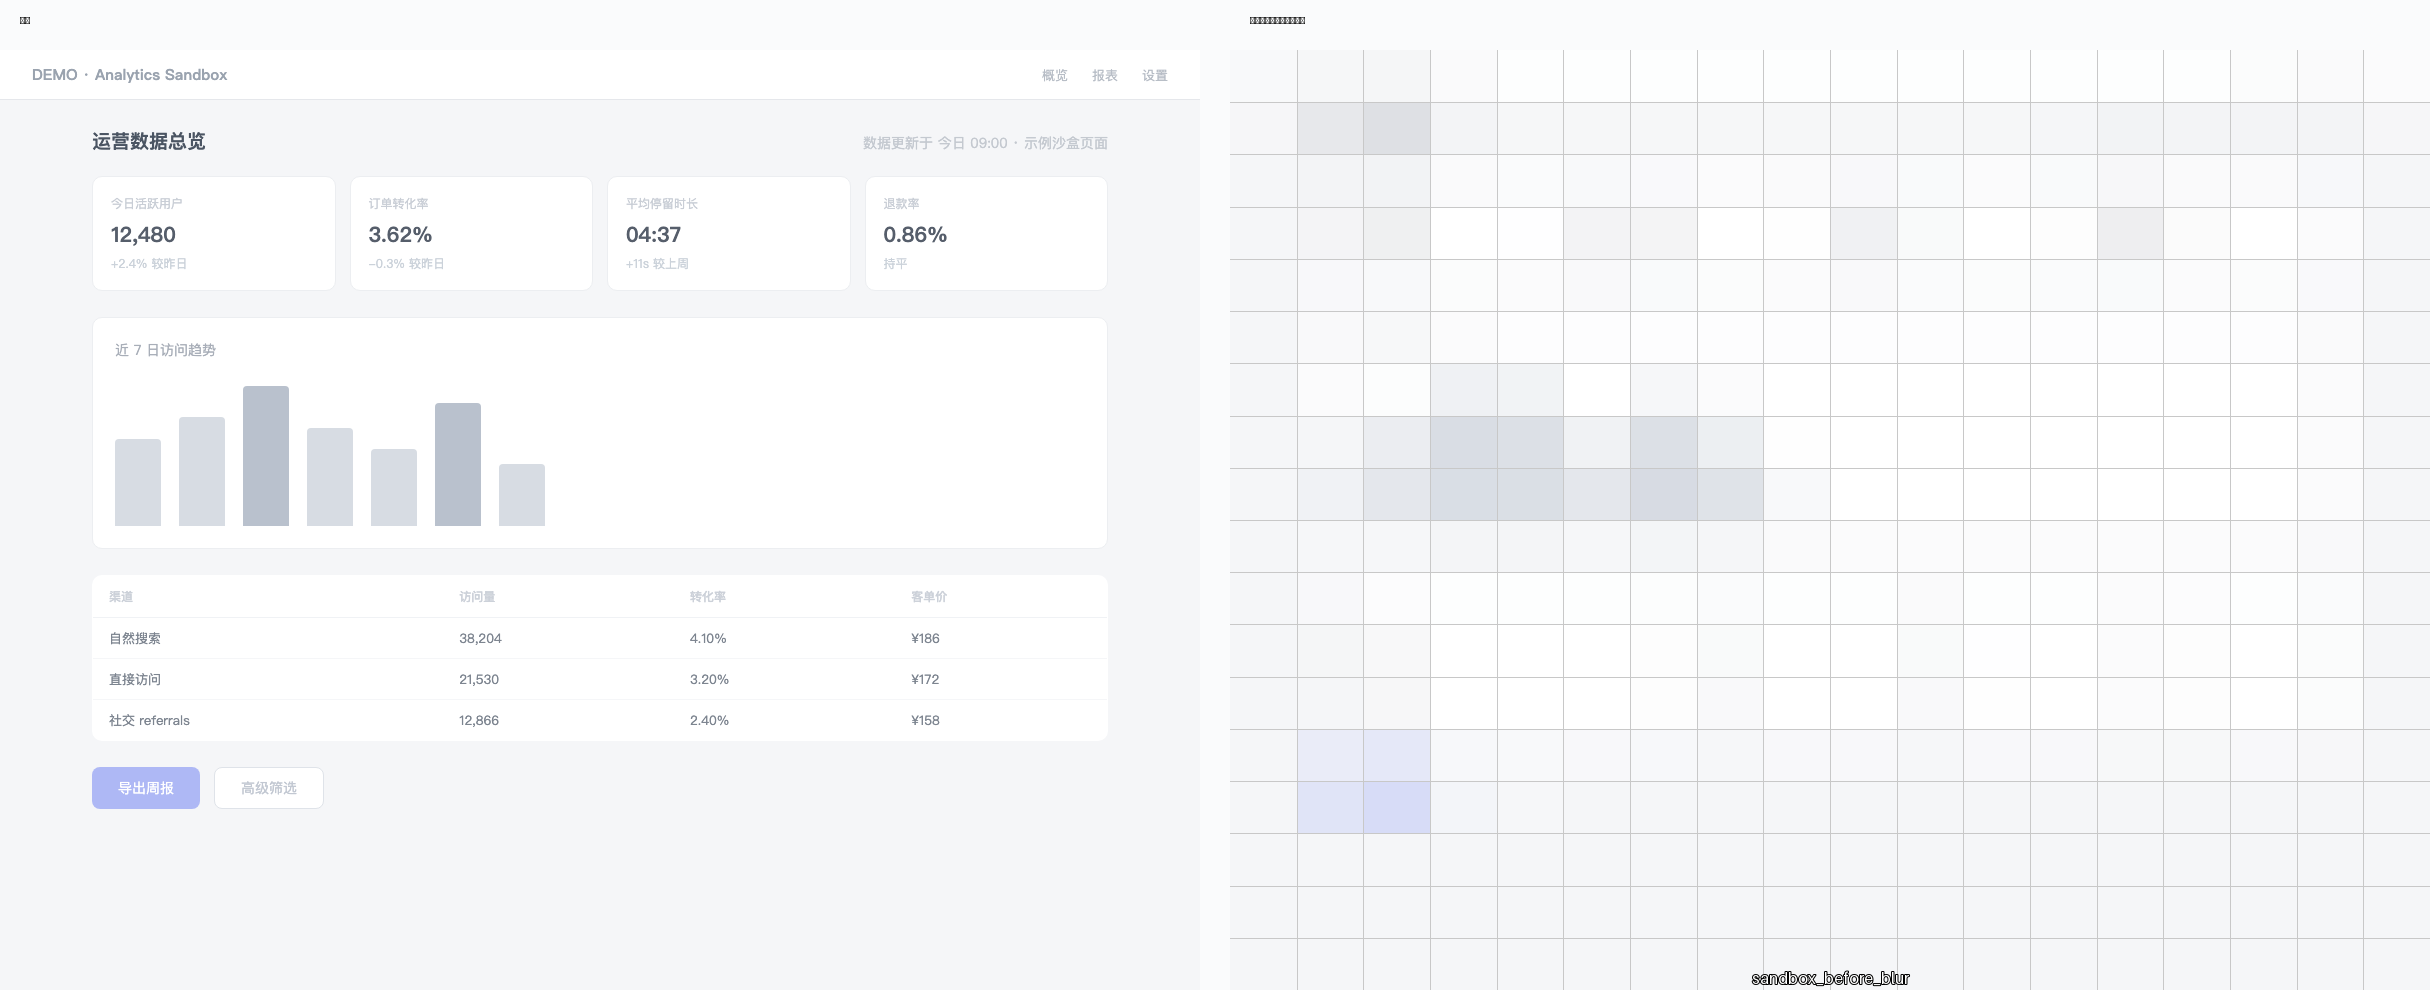
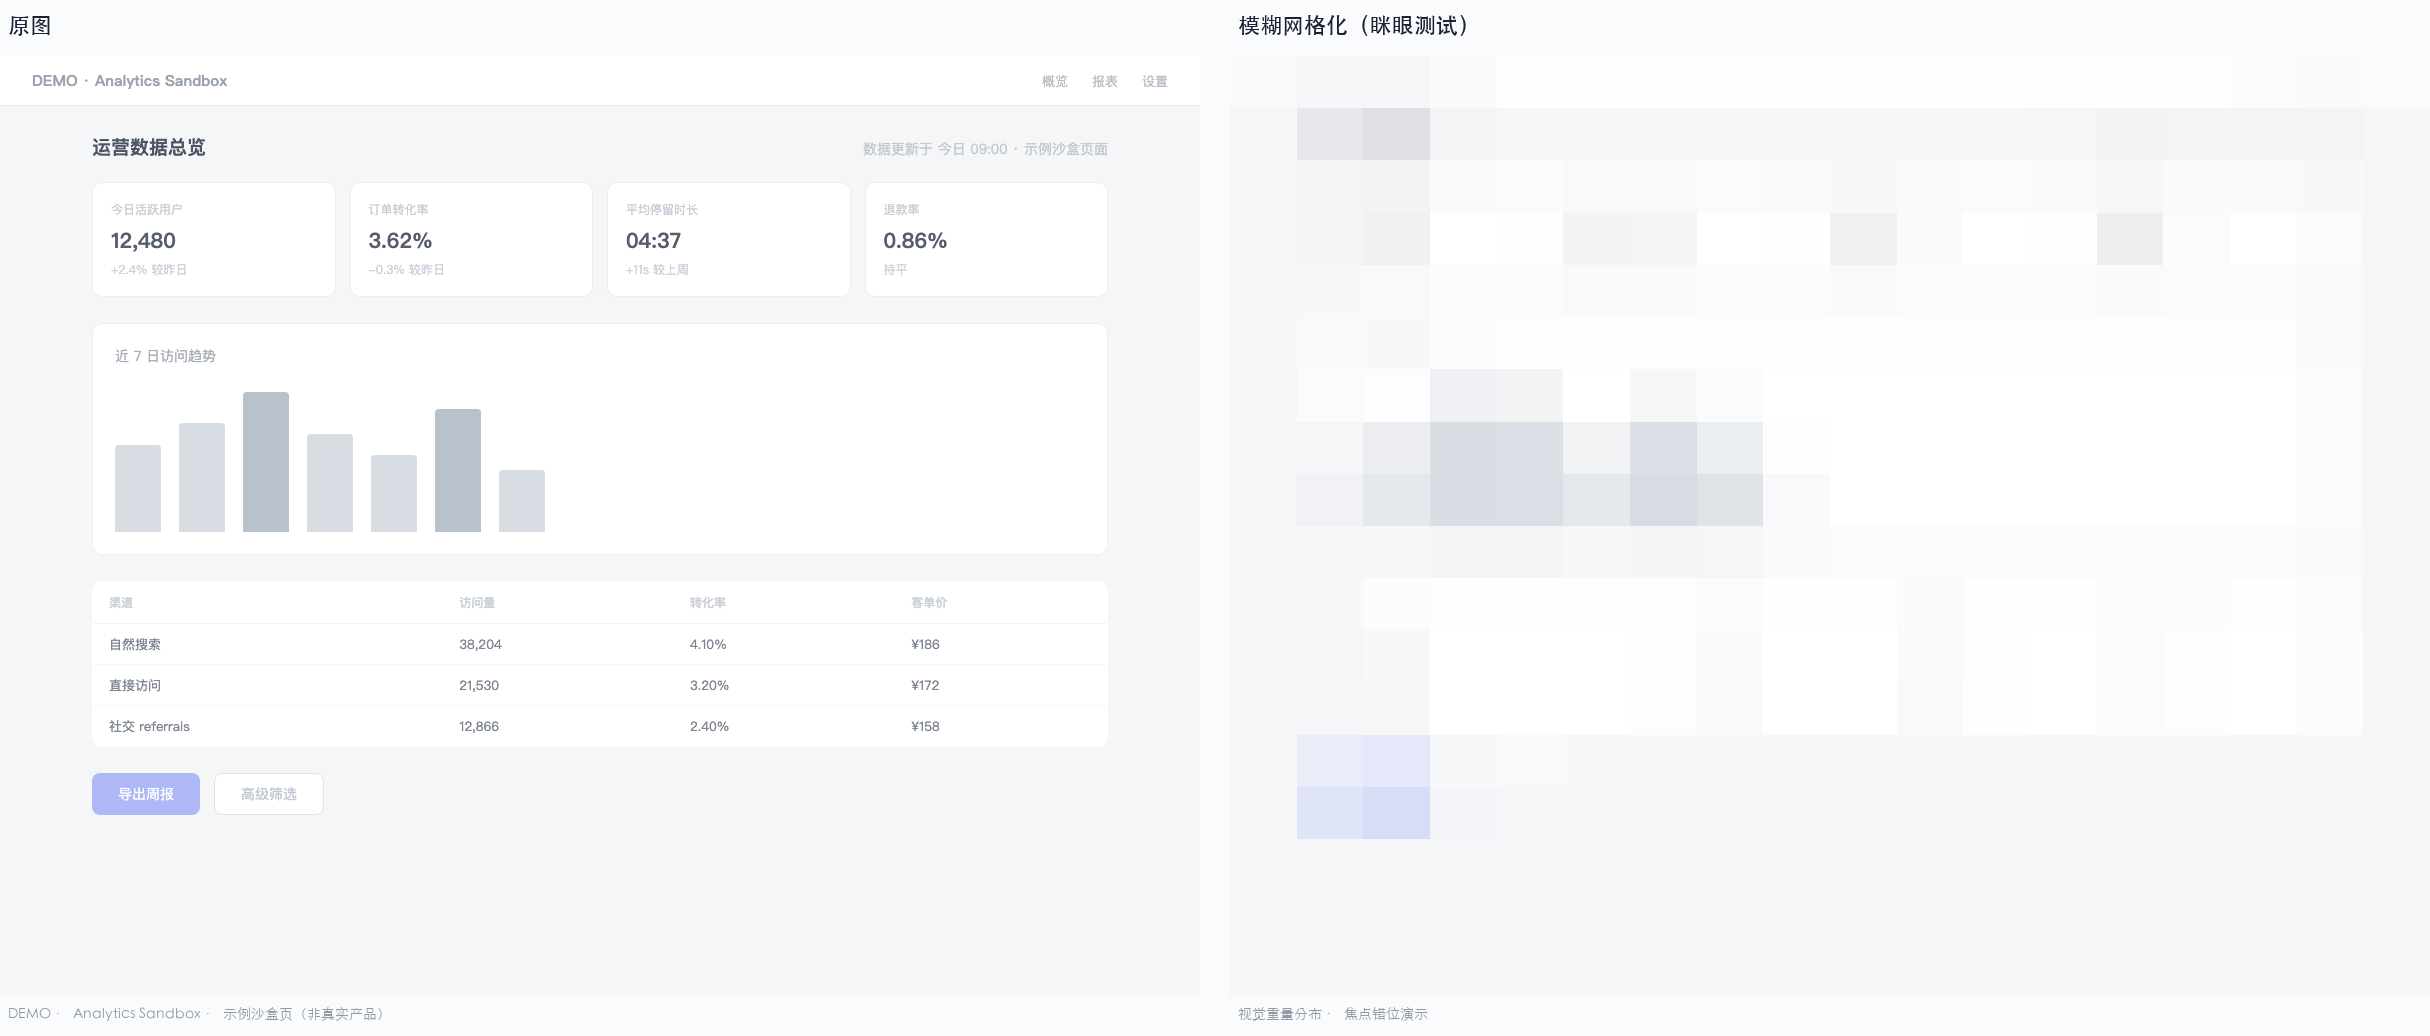
v0.1.0 修订：按 K3 复核意见修复 6 项 P1 + 5 项低成本 P2
P1 必修：
- P1-1 README.md GitHub Actions yaml 路径 bug（去掉 cd，相对路径直接落 ci-tools/）
- P1-2 waitlist 入口清理：保留真实可用的 GitHub Issue 入口，删除无效邮箱/问卷/标签指引
- P1-3 README 补充 examples/ 入口与免费/商业输出边界说明
- P1-4 report_02 删除「70–80 字」锚定数值暗示
- P1-5 report_01 删除「高斯模糊 + 18×18」工具链参数痕迹
- P1-6 docs/blur_grid_compare.png 重出（CJK 字体修复、无内部文件名）

P2 顺手（成本极低+影响公开质量）：
- P2-1 README L82 眯眼金句补英文翻译
- P2-2 删除「不卖包代码…外发即不可控」内部策略自白（L96-97）
- P2-3 README footer 404 链接改为 waitlist 章节内联说明
- P2-4 三份报告概览表下加「整体评级由八维综合得出，非 P0 数量的函数」
- P2-5 体检卡重做：真实维度名 + 去横条（无数字刻度泄露）
- P2-6 README 副标题「一行命令」→「五分钟接入」
- P2-7 落差归因中「眯眼+对比度+视觉层级评分联合判定」弱化为「更系统的视觉层级评估」

清理：docs/blur_grid_mosaic.png 中间产物删除（annotate 网格+内部文件名已剥离）

diff --git a/README.md b/README.md
@@ -1,8 +1,8 @@
 # CI Gate · 对比度与 CSS Token 卫生自动化门禁
 # CI Gate for Contrast & CSS Token Hygiene
 
-> **零第三方依赖（仅 Python 标准库）· 可独立分发作 CI 门禁 · 一行命令接入 GitHub Actions**
-> **Zero third-party dependencies (Python standard library only) · Ship as a standalone CI gate · One-line integration with GitHub Actions**
+> **零第三方依赖（仅 Python 标准库）· 可独立分发作 CI 门禁 · 五分钟接入 GitHub Actions**
+> **Zero third-party dependencies (Python standard library only) · Ship as a standalone CI gate · Five-minute integration with GitHub Actions**
 
 ---
 
@@ -61,7 +61,7 @@ But the real culprits behind conversion and UX regressions are far quieter: visu
 > 完整设计评估体系（八维评分 · 锚定量表 · 失分模式库 · 案例归因 SOP）正在内测，
 > 商业版面向团队授权与持续校准更新订阅。免费版守住下限，商业版托起上限。
 >
-> *A full design evaluation methodology (8-dimension scoring · anchoring scale · failure-pattern library · case-attribution SOP) is in private beta. The commercial release ships as a team license plus calibration-update subscription. Free version guards the floor; the commercial release carries the ceiling.*
+> *A full design evaluation methodology (8-dimension scoring · anchoring scale · failure-pattern library · case-attribution SOP) is in private beta. The commercial release ships as a team license plus calibration-update subscription. Free version guards the floor; the commercial release raises the ceiling.*
 
 ---
 
@@ -80,6 +80,12 @@ Below: a side-by-side of a regular screenshot versus its color-block grid (the "
 | 主按钮 / Primary CTA | 白字浅底，对比度不足 | 模糊后仅剩一团淡色 |
 
 > 评估时眯眼看一眼：焦点是落在页面想要用户行动的位置上吗？——对比度门禁不会告诉你答案。
+>
+> *Squint at it: does the focus land where the page wants users to act? A contrast gate won't tell you.*
+
+> 完整示例报告（B 端看板实跑 + 两个行业虚构样张）与体检卡样张见 [`examples/`](./examples/)。免费脚本输出为机器可读的对比度 / Token 检查结果；示例报告展示的是商业版完整评估的输出形态。
+>
+> *Full sample reports (a real-run B2B dashboard plus two fictional industry samples) and the health-card sample live in [`examples/`](./examples/). The free scripts emit machine-readable contrast/token checks; the sample reports demonstrate the commercial version's full evaluation output.*
 
 ---
 
@@ -89,12 +95,8 @@ Below: a side-by-side of a regular screenshot versus its color-block grid (the "
 
 *The commercial release is in private beta. If you'd like your team to trial the full methodology (8-dimension scoring · anchoring scale · failure-pattern library · continuous calibration updates), join the waitlist:*
 
-- 📬 **邮件预约** / Email: `wcag-gate@等待名单.example` *(正式邮箱将在 v0.2 上线时启用)*
-- 📋 **问卷登记** / Survey form: `https://waitinglist.example/wcag-gate` *(同上，即将上线)*
-- 💬 **GitHub Issue** 留言 / Drop a comment in [Issues](../../issues) 并打 `commercial-beta` 标签 — 我们手动跟进
-
-> 商业版不卖包代码、只卖授权与校准更新订阅：技能包一旦外发即不可控，能锁住的是随时间增值的实证资产与方法论持续校准。
-> *Commercial version is licensed access + calibration-update subscription, not a packaged binary: skill contents cannot be controlled once shipped; the lasting value is in the empirically-calibrated assets and the continuous methodology update.*
+- 💬 **GitHub Issue** 留言 / Drop a comment in [Issues](../../issues)：标题含 `[commercial-beta]`，我们手动跟进 / *Title your issue with `[commercial-beta]` and we'll follow up manually.*
+- 📬 邮件预约与问卷登记将于 v0.2 上线时开放 / *Email and survey sign-up will open at v0.2.*
 
 ---
 
@@ -109,9 +111,9 @@ jobs:
     steps:
       - uses: actions/checkout@v4
       - run: |
-          mkdir -p ci-tools && cd ci-tools
-          curl -sSL https://raw.githubusercontent.com/johnsmithCA-sta/wcag-contrast-ci/main/contrast_checker.py -o contrast_checker.py
-          curl -sSL https://raw.githubusercontent.com/johnsmithCA-sta/wcag-contrast-ci/main/extract_css_vars.py -o extract_css_vars.py
+          mkdir -p ci-tools
+          curl -sSL https://raw.githubusercontent.com/johnsmithCA-sta/wcag-contrast-ci/main/contrast_checker.py -o ci-tools/contrast_checker.py
+          curl -sSL https://raw.githubusercontent.com/johnsmithCA-sta/wcag-contrast-ci/main/extract_css_vars.py -o ci-tools/extract_css_vars.py
           python3 ci-tools/contrast_checker.py --file .a11y/color-pairs.txt --fail-on-issues
           python3 ci-tools/extract_css_vars.py --input dist/css/ --json token-report.json
 ```
@@ -160,4 +162,4 @@ WCAG / ADA / EN 301 549 等正式无障碍审计须由持证机构出具。
 
 ---
 
-<sub>From the **[完整设计评估体系](商业版内测)** by johnsmithCA-sta · v0.1.0 · 2026-09-01</sub>
+<sub>From the **完整设计评估体系**（commercial beta — see waitlist above）by johnsmithCA-sta · v0.1.0 · 2026-09-01</sub>

diff --git a/examples/report_01_dashboard.md b/examples/report_01_dashboard.md
@@ -15,6 +15,8 @@
 | 主要问题 | 见下方评分卡 P0 行 |
 | 建议优先级 | P0×3 → P1×4 → P2×3 |
 
+> 整体评级由八维综合得出，非 P0 数量的函数。
+
 ---
 
 ## 八维评分（结论口径）
@@ -69,7 +71,7 @@
 > **核心归因**：本设计在「结构与排版」层面做了扎实的执行，但在「视觉重量与对比度」层面**优先级判断失准**——把注意力分配给了次级元素（如 KPI 标签、表格表头、副标题时间戳），而把最重要的「主操作与主标题」放在了视觉重量最弱的层级。
 
 这意味着：
-- 不是设计能力问题，是**优先级判断框架**问题——靠肉眼看不出来，需要眯眼测试 + 对比度门禁 + 视觉层级评分**联合判定**。
+- 不是设计能力问题，是**优先级判断框架**问题——靠肉眼看不出来，需要更系统的视觉层级评估。
 - 仅补对比度门禁（免费版可做的）能解决 P0 第 1 项；剩下两项需要更系统的视觉层级评估。
 - 单次评估中三个 P0 是同源问题——视觉重量与对比度的协同设计。一旦修复主 CTA 视觉权重，副标题与导航项的对比度问题会同步改善（因为重设了主色优先级）。
 
@@ -77,7 +79,7 @@
 
 ## 视觉钩子：眯眼测试结果
 
-> 同截图的高斯模糊 + 色块网格化（18×18）处理后，第一焦点落点 = KPI 卡群（应为：主 CTA 或主标题）。
+> 同截图经模糊网格化处理后，第一焦点落点 = KPI 卡群（应为：主 CTA 或主标题）。
 
 | 区域 | 模糊前判断 | 模糊后实际焦点 |
 |---|---|---|

diff --git a/examples/report_03_ecom.md b/examples/report_03_ecom.md
@@ -15,6 +15,8 @@
 | 主要问题 | 见下方评分卡 P0 行 |
 | 建议优先级 | P0×2 → P1×3 → P2×2 |
 
+> 整体评级由八维综合得出，非 P0 数量的函数。
+
 ---
 
 ## 八维评分（结论口径）
@@ -64,7 +66,7 @@
 > **核心归因**：设计把转化页当作品牌页来处理——品牌页追求「信息平衡」，转化页追求「视觉引导」。当前页面在信息平衡上做对了，但**没有为转化动作设计视觉重量优先级**。
 >
 > 这意味着：
-> - 仅修对比度（免费版可做的）能解决 P0 第 2 项；P0 第 1 项需要**视觉层级评分 + 眯眼测试**联合判定。
+> - 仅修对比度（免费版可做的）能解决 P0 第 2 项；P0 第 1 项需要更系统的视觉层级评估。
 > - 修复路径：先把主 CTA 视觉重量拉满（颜色 + 尺寸 + 留白）→ 再把价格对比度提上来 → 最后收敛卖点层级。
 > - 这是典型的「按通用页思路设计转化页」问题——需要按**页面目标**分类（品牌/转化/工具/阅读）应用不同的视觉权重框架。
 

diff --git a/examples/report_02_longform.md b/examples/report_02_longform.md
@@ -15,6 +15,8 @@
 | 主要问题 | 见下方评分卡 P0/P1 行 |
 | 建议优先级 | P0×2 → P1×5 → P2×2 |
 
+> 整体评级由八维综合得出，非 P0 数量的函数。
+
 ---
 
 ## 八维评分（结论口径）
@@ -54,7 +56,7 @@
 
 ## 亮点
 
-- 正文行宽克制（70–80 字），长文阅读体验良好
+- 正文行宽克制，长文阅读体验良好
 - 主配色单一（黑+品牌强调色），无视觉噪点
 - 引用块与正文有明显缩进区分
 - 链接 hover 状态有反馈
